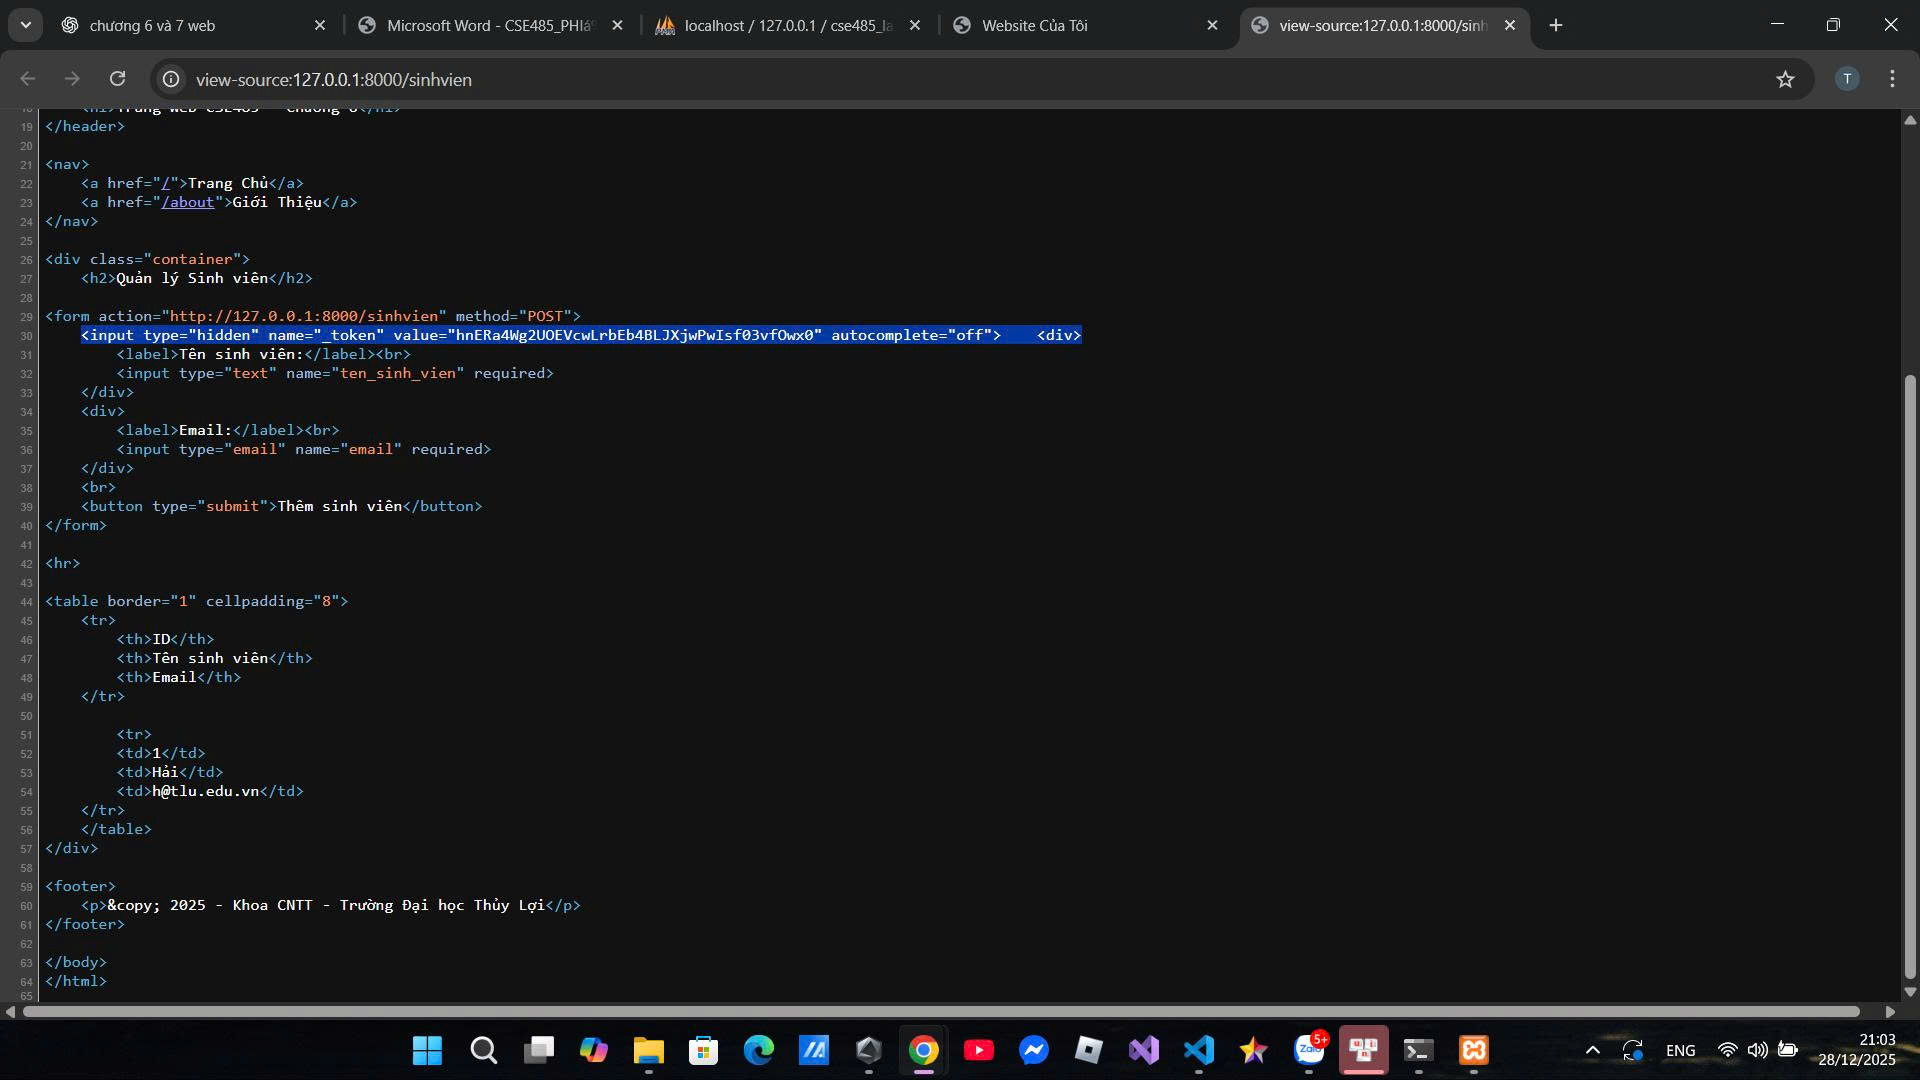
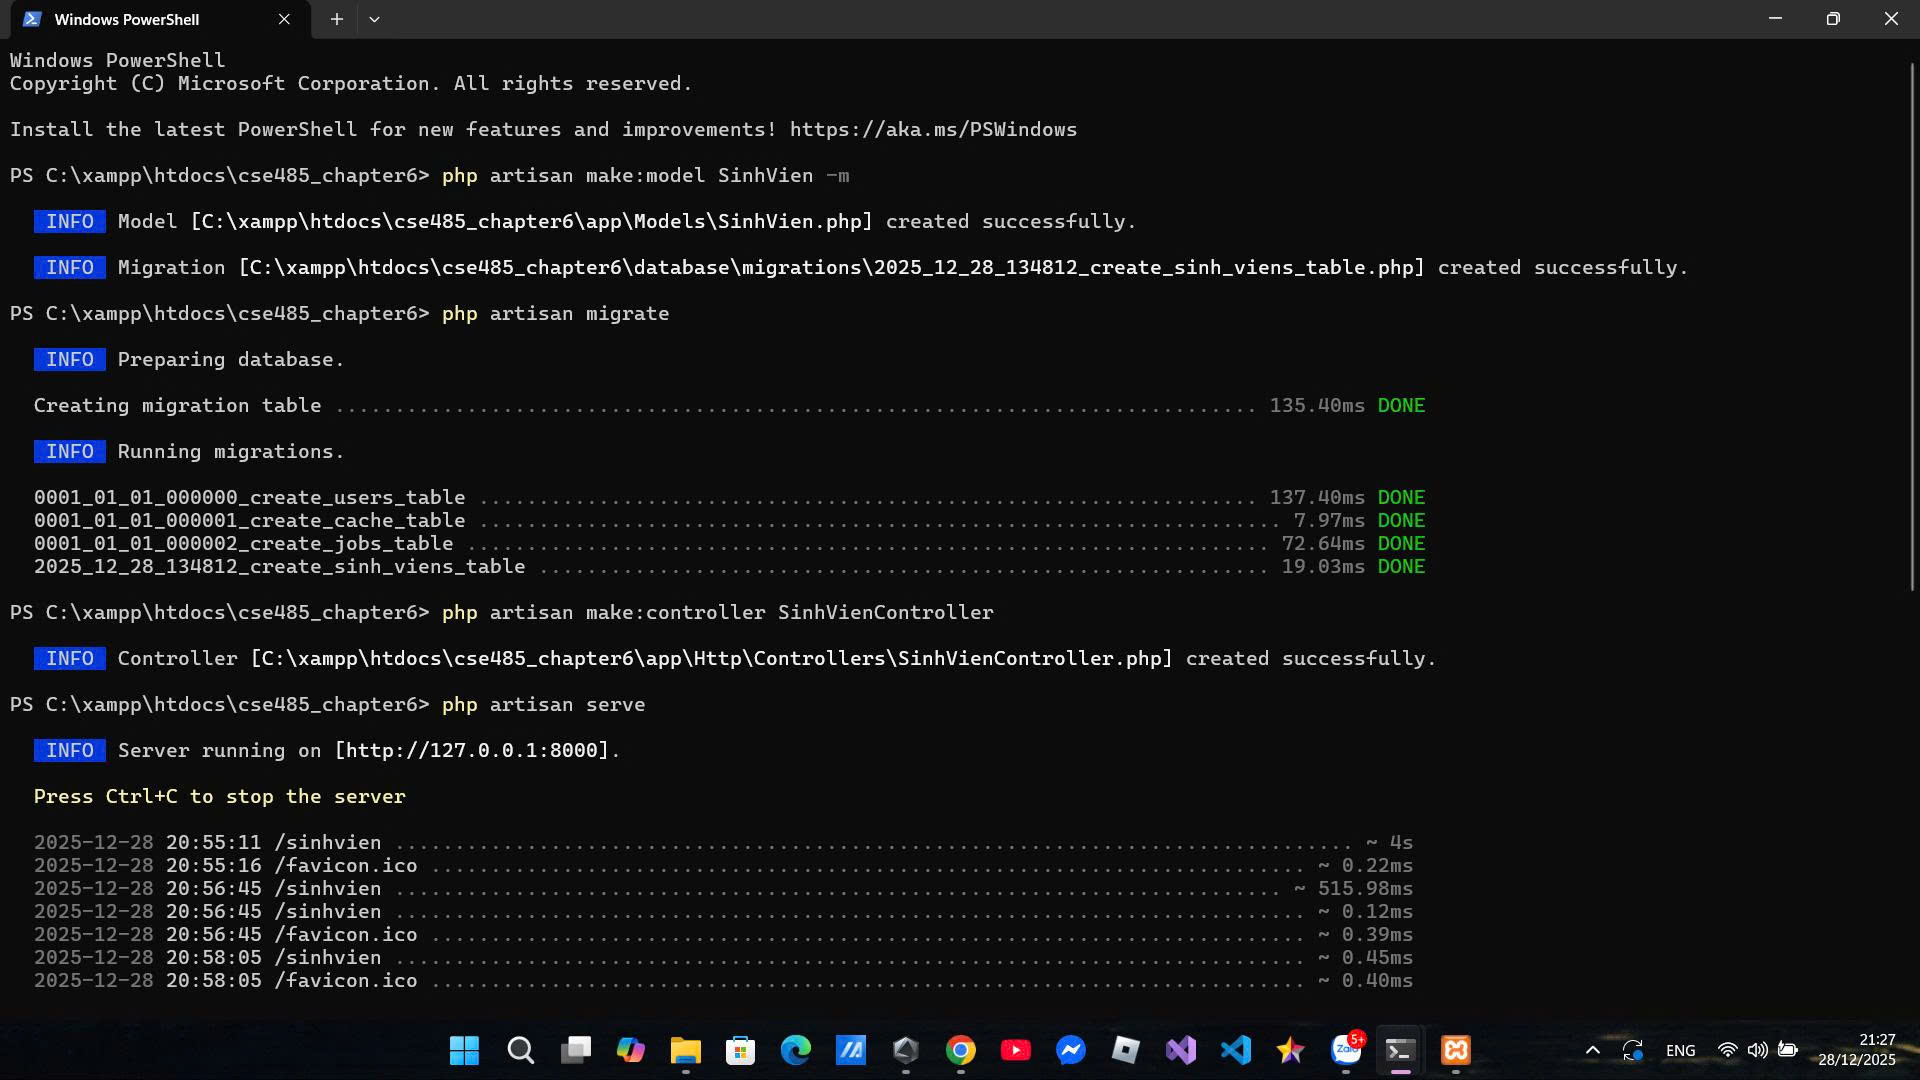
Add PHT_Chapter8 folder with exercises

Changed region(s): [[0.0, 0.0, 1.0, 1.0], [0.6562, 0.4583, 0.75, 0.55], [0.6562, 0.3667, 0.75, 0.3972]]

diff --git a/PhieuHocTap/PHT_Chapter8/2025_12_28_134812_create_sinh_viens_table.php b/PhieuHocTap/PHT_Chapter8/2025_12_28_134812_create_sinh_viens_table.php
@@ -1,0 +1,29 @@
+<?php
+
+use Illuminate\Database\Migrations\Migration;
+use Illuminate\Database\Schema\Blueprint;
+use Illuminate\Support\Facades\Schema;
+
+return new class extends Migration
+{
+    /**
+     * Run the migrations.
+     */
+    public function up(): void
+    {
+        Schema::create('sinh_viens', function (Blueprint $table) {
+            $table->id();
+            $table->string('ten_sinh_vien', 255);
+            $table->string('email', 255)->unique();
+            $table->timestamps();
+        });
+    }
+
+    /**
+     * Reverse the migrations.
+     */
+    public function down(): void
+    {
+        Schema::dropIfExists('sinh_viens');
+    }
+};

diff --git a/PhieuHocTap/PHT_Chapter8/SinhVienController.php b/PhieuHocTap/PHT_Chapter8/SinhVienController.php
@@ -1,0 +1,25 @@
+<?php
+
+namespace App\Http\Controllers;
+
+use Illuminate\Http\Request;
+use App\Models\SinhVien;
+
+class SinhVienController extends Controller
+{
+    // Hiển thị danh sách sinh viên
+    public function index()
+    {
+        $danhSachSV = SinhVien::all();
+        return view('sinhvien.list', compact('danhSachSV'));
+    }
+
+    // Lưu sinh viên mới
+    public function store(Request $request)
+    {
+        $data = $request->all();
+        SinhVien::create($data);
+
+        return redirect()->route('sinhvien.index');
+    }
+}

diff --git a/PhieuHocTap/PHT_Chapter8/web.php b/PhieuHocTap/PHT_Chapter8/web.php
@@ -1,0 +1,18 @@
+<?php
+
+use Illuminate\Support\Facades\Route;
+use App\Http\Controllers\PageController;
+use App\Http\Controllers\SinhVienController;
+
+
+// Trang chủ
+Route::get('/', [PageController::class, 'showHomepage']);
+
+// Trang giới thiệu
+Route::get('/about', [PageController::class, 'showHomepage']);
+
+Route::get('/sinhvien', [SinhVienController::class, 'index'])
+    ->name('sinhvien.index');
+
+Route::post('/sinhvien', [SinhVienController::class, 'store'])
+    ->name('sinhvien.store');

diff --git a/PhieuHocTap/PHT_Chapter8/SinhVien.php b/PhieuHocTap/PHT_Chapter8/SinhVien.php
@@ -1,0 +1,16 @@
+<?php
+
+namespace App\Models;
+
+use Illuminate\Database\Eloquent\Factories\HasFactory;
+use Illuminate\Database\Eloquent\Model;
+
+class SinhVien extends Model
+{
+    use HasFactory;
+
+    protected $fillable = [
+        'ten_sinh_vien',
+        'email',
+    ];
+}
